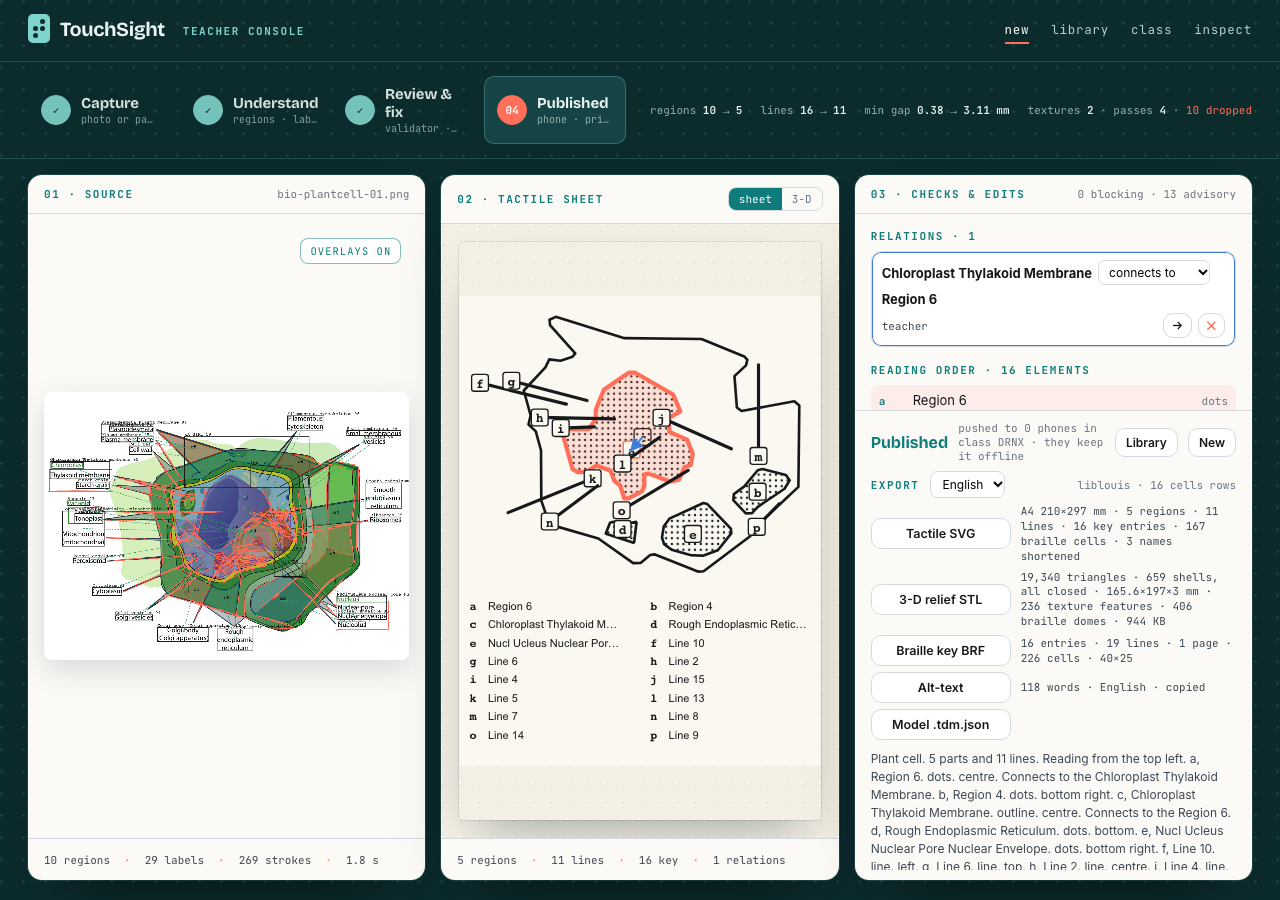
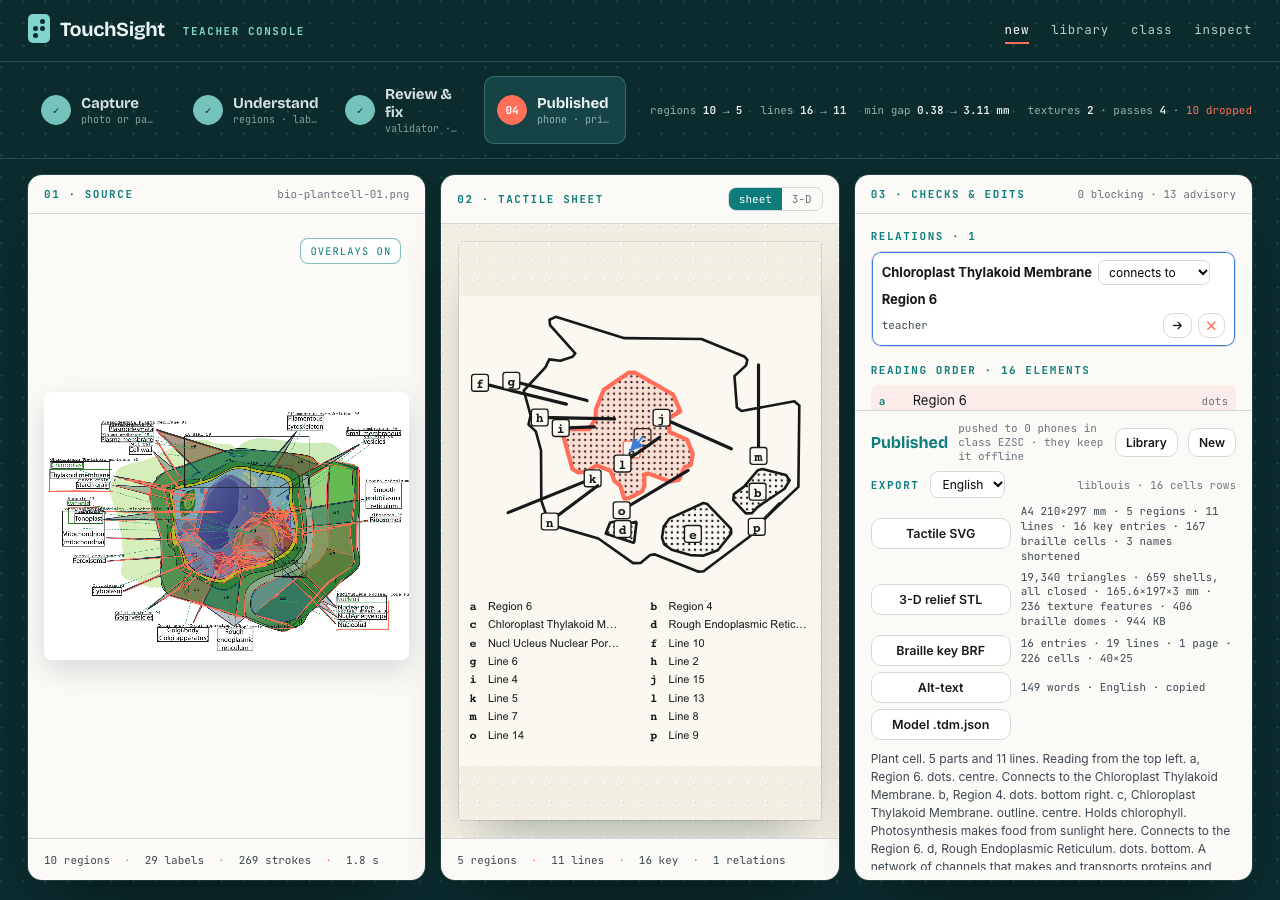
Parts explain themselves when the finger rests

Changed region(s): [[0.6875, 0.9022, 0.9688, 0.9644], [0.6875, 0.28, 0.8438, 0.3111], [0.6875, 0.3422, 0.7188, 0.3733]]

diff --git a/app/src/i18n/meanings.ts b/app/src/i18n/meanings.ts
@@ -1,0 +1,99 @@
+import type { Lang } from '../tdm/types'
+
+/**
+ * What the common parts of school diagrams do, in the three languages of the pilot classrooms. Matched to a
+ * part's name when the teacher reviews; marked "from glossary" until the teacher confirms or rewrites it.
+ * Deterministic and offline: no model writes a sentence a teacher has not seen.
+ */
+export type Meaning = { en: string; hi: string; pa: string }
+type Entry = { names: string[]; m: Meaning }
+
+const G: Entry[] = [
+  { names: ['right atrium'], m: { en: 'Receives deoxygenated blood from the body through the vena cava and passes it to the right ventricle.', hi: 'शरीर से ऑक्सीजन-रहित रक्त महाशिरा द्वारा लेता है और दाएँ निलय को भेजता है।', pa: 'ਸਰੀਰ ਤੋਂ ਆਕਸੀਜਨ-ਰਹਿਤ ਲਹੂ ਮਹਾਂਸ਼ਿਰਾ ਰਾਹੀਂ ਲੈਂਦਾ ਹੈ ਅਤੇ ਸੱਜੇ ਨਿਲਯ ਨੂੰ ਭੇਜਦਾ ਹੈ।' } },
+  { names: ['right ventricle'], m: { en: 'Pumps deoxygenated blood to the lungs through the pulmonary artery.', hi: 'ऑक्सीजन-रहित रक्त को फुफ्फुस धमनी द्वारा फेफड़ों तक पंप करता है।', pa: 'ਆਕਸੀਜਨ-ਰਹਿਤ ਲਹੂ ਨੂੰ ਫੇਫੜਿਆਂ ਤੱਕ ਪਲਮੋਨਰੀ ਧਮਣੀ ਰਾਹੀਂ ਪੰਪ ਕਰਦਾ ਹੈ।' } },
+  { names: ['left atrium'], m: { en: 'Receives oxygen-rich blood from the lungs through the pulmonary veins.', hi: 'फेफड़ों से ऑक्सीजन-युक्त रक्त फुफ्फुस शिराओं द्वारा लेता है।', pa: 'ਫੇਫੜਿਆਂ ਤੋਂ ਆਕਸੀਜਨ-ਯੁਕਤ ਲਹੂ ਪਲਮੋਨਰੀ ਸ਼ਿਰਾਵਾਂ ਰਾਹੀਂ ਲੈਂਦਾ ਹੈ।' } },
+  { names: ['left ventricle'], m: { en: 'The thickest chamber. Pumps oxygen-rich blood to the whole body through the aorta.', hi: 'सबसे मोटा कक्ष। ऑक्सीजन-युक्त रक्त महाधमनी द्वारा पूरे शरीर में पंप करता है।', pa: 'ਸਭ ਤੋਂ ਮੋਟਾ ਕਮਰਾ। ਆਕਸੀਜਨ-ਯੁਕਤ ਲਹੂ ਮਹਾਂਧਮਣੀ ਰਾਹੀਂ ਪੂਰੇ ਸਰੀਰ ਵਿੱਚ ਪੰਪ ਕਰਦਾ ਹੈ।' } },
+  { names: ['septum', 'heart wall'], m: { en: 'The muscular wall that keeps oxygen-rich and oxygen-poor blood apart.', hi: 'पेशीय दीवार जो ऑक्सीजन-युक्त और ऑक्सीजन-रहित रक्त को अलग रखती है।', pa: 'ਪੇਸ਼ੀ ਦੀ ਕੰਧ ਜੋ ਆਕਸੀਜਨ-ਯੁਕਤ ਤੇ ਆਕਸੀਜਨ-ਰਹਿਤ ਲਹੂ ਨੂੰ ਵੱਖ ਰੱਖਦੀ ਹੈ।' } },
+  { names: ['aorta'], m: { en: 'The largest artery. Carries oxygen-rich blood from the left ventricle to the body.', hi: 'सबसे बड़ी धमनी। बाएँ निलय से ऑक्सीजन-युक्त रक्त शरीर तक ले जाती है।', pa: 'ਸਭ ਤੋਂ ਵੱਡੀ ਧਮਣੀ। ਖੱਬੇ ਨਿਲਯ ਤੋਂ ਆਕਸੀਜਨ-ਯੁਕਤ ਲਹੂ ਸਰੀਰ ਤੱਕ ਲੈ ਜਾਂਦੀ ਹੈ।' } },
+  { names: ['pulmonary artery'], m: { en: 'Carries deoxygenated blood from the right ventricle to the lungs.', hi: 'दाएँ निलय से ऑक्सीजन-रहित रक्त फेफड़ों तक ले जाती है।', pa: 'ਸੱਜੇ ਨਿਲਯ ਤੋਂ ਆਕਸੀਜਨ-ਰਹਿਤ ਲਹੂ ਫੇਫੜਿਆਂ ਤੱਕ ਲੈ ਜਾਂਦੀ ਹੈ।' } },
+  { names: ['pulmonary vein', 'pulmonary veins'], m: { en: 'Bring oxygen-rich blood from the lungs to the left atrium.', hi: 'फेफड़ों से ऑक्सीजन-युक्त रक्त बाएँ आलिंद तक लाती हैं।', pa: 'ਫੇਫੜਿਆਂ ਤੋਂ ਆਕਸੀਜਨ-ਯੁਕਤ ਲਹੂ ਖੱਬੇ ਆਲਿੰਦ ਤੱਕ ਲਿਆਉਂਦੀਆਂ ਹਨ।' } },
+  { names: ['superior vena cava', 'inferior vena cava', 'vena cava'], m: { en: 'A large vein bringing deoxygenated blood from the body to the right atrium.', hi: 'बड़ी शिरा जो शरीर से ऑक्सीजन-रहित रक्त दाएँ आलिंद तक लाती है।', pa: 'ਵੱਡੀ ਸ਼ਿਰਾ ਜੋ ਸਰੀਰ ਤੋਂ ਆਕਸੀਜਨ-ਰਹਿਤ ਲਹੂ ਸੱਜੇ ਆਲਿੰਦ ਤੱਕ ਲਿਆਉਂਦੀ ਹੈ।' } },
+  { names: ['valve', 'tricuspid valve', 'bicuspid valve', 'mitral valve'], m: { en: 'Opens one way so blood cannot flow backwards.', hi: 'एक ही दिशा में खुलता है ताकि रक्त पीछे न बहे।', pa: 'ਇੱਕ ਪਾਸੇ ਖੁੱਲ੍ਹਦਾ ਹੈ ਤਾਂ ਜੋ ਲਹੂ ਪਿੱਛੇ ਨਾ ਵਹੇ।' } },
+  { names: ['cell wall'], m: { en: 'The rigid outer layer of a plant cell, made of cellulose. Gives shape and protection.', hi: 'पादप कोशिका की कठोर बाहरी परत, सेलुलोज़ की बनी। आकार और सुरक्षा देती है।', pa: 'ਪੌਦੇ ਦੀ ਕੋਸ਼ਿਕਾ ਦੀ ਸਖ਼ਤ ਬਾਹਰੀ ਪਰਤ, ਸੈਲੂਲੋਜ਼ ਦੀ ਬਣੀ। ਆਕਾਰ ਤੇ ਸੁਰੱਖਿਆ ਦਿੰਦੀ ਹੈ।' } },
+  { names: ['cell membrane', 'plasma membrane'], m: { en: 'Controls what enters and leaves the cell.', hi: 'कोशिका में क्या अंदर आए और क्या बाहर जाए, इसे नियंत्रित करती है।', pa: 'ਕੋਸ਼ਿਕਾ ਵਿੱਚ ਕੀ ਅੰਦਰ ਆਵੇ ਤੇ ਕੀ ਬਾਹਰ ਜਾਵੇ, ਇਹ ਕਾਬੂ ਕਰਦੀ ਹੈ।' } },
+  { names: ['nucleus'], m: { en: 'Controls the cell and holds the chromosomes.', hi: 'कोशिका को नियंत्रित करता है और गुणसूत्र रखता है।', pa: 'ਕੋਸ਼ਿਕਾ ਨੂੰ ਕਾਬੂ ਕਰਦਾ ਹੈ ਤੇ ਗੁਣਸੂਤਰ ਰੱਖਦਾ ਹੈ।' } },
+  { names: ['nucleolus'], m: { en: 'The dense body inside the nucleus where ribosomes are made.', hi: 'केंद्रक के भीतर घना पिंड जहाँ राइबोसोम बनते हैं।', pa: 'ਨਿਊਕਲੀਅਸ ਅੰਦਰ ਸੰਘਣਾ ਪਿੰਡ ਜਿੱਥੇ ਰਾਈਬੋਸੋਮ ਬਣਦੇ ਹਨ।' } },
+  { names: ['nuclear membrane', 'nuclear envelope'], m: { en: 'The double membrane around the nucleus, with pores that let materials pass.', hi: 'केंद्रक के चारों ओर दोहरी झिल्ली, जिसके छिद्रों से पदार्थ आते-जाते हैं।', pa: 'ਨਿਊਕਲੀਅਸ ਦੁਆਲੇ ਦੂਹਰੀ ਝਿੱਲੀ, ਜਿਸਦੇ ਛੇਕਾਂ ਰਾਹੀਂ ਪਦਾਰਥ ਆਉਂਦੇ-ਜਾਂਦੇ ਹਨ।' } },
+  { names: ['cytoplasm'], m: { en: 'The jelly that fills the cell and holds every organelle.', hi: 'जेली जैसा पदार्थ जो कोशिका को भरता है और हर कोशिकांग को थामे रखता है।', pa: 'ਜੈਲੀ ਵਰਗਾ ਪਦਾਰਥ ਜੋ ਕੋਸ਼ਿਕਾ ਨੂੰ ਭਰਦਾ ਹੈ ਤੇ ਹਰ ਅੰਗਕ ਨੂੰ ਥੰਮ੍ਹਦਾ ਹੈ।' } },
+  { names: ['vacuole', 'central vacuole'], m: { en: 'Stores water, sugars and waste, and keeps the cell firm.', hi: 'पानी, शर्करा और अपशिष्ट संग्रहित करती है और कोशिका को तना रखती है।', pa: 'ਪਾਣੀ, ਸ਼ੱਕਰ ਤੇ ਰਹਿੰਦ-ਖੂੰਹਦ ਜਮ੍ਹਾਂ ਰੱਖਦੀ ਹੈ ਤੇ ਕੋਸ਼ਿਕਾ ਨੂੰ ਤਣਿਆ ਰੱਖਦੀ ਹੈ।' } },
+  { names: ['chloroplast', 'chloroplasts'], m: { en: 'Holds chlorophyll. Photosynthesis makes food from sunlight here.', hi: 'क्लोरोफ़िल रखता है। यहाँ प्रकाश-संश्लेषण से सूर्य के प्रकाश से भोजन बनता है।', pa: 'ਕਲੋਰੋਫ਼ਿਲ ਰੱਖਦਾ ਹੈ। ਇੱਥੇ ਪ੍ਰਕਾਸ਼-ਸੰਸ਼ਲੇਸ਼ਣ ਨਾਲ ਧੁੱਪ ਤੋਂ ਭੋਜਨ ਬਣਦਾ ਹੈ।' } },
+  { names: ['mitochondrion', 'mitochondria'], m: { en: 'Releases energy from food. The powerhouse of the cell.', hi: 'भोजन से ऊर्जा मुक्त करता है। कोशिका का ऊर्जा-घर।', pa: 'ਭੋਜਨ ਤੋਂ ਊਰਜਾ ਛੱਡਦਾ ਹੈ। ਕੋਸ਼ਿਕਾ ਦਾ ਊਰਜਾ-ਘਰ।' } },
+  { names: ['ribosome', 'ribosomes'], m: { en: 'Builds proteins.', hi: 'प्रोटीन बनाते हैं।', pa: 'ਪ੍ਰੋਟੀਨ ਬਣਾਉਂਦੇ ਹਨ।' } },
+  { names: ['endoplasmic reticulum', 'rough endoplasmic reticulum', 'smooth endoplasmic reticulum'], m: { en: 'A network of channels that makes and transports proteins and fats.', hi: 'नलिकाओं का जाल जो प्रोटीन और वसा बनाता और पहुँचाता है।', pa: 'ਨਲੀਆਂ ਦਾ ਜਾਲ ਜੋ ਪ੍ਰੋਟੀਨ ਤੇ ਚਰਬੀ ਬਣਾਉਂਦਾ ਤੇ ਪਹੁੰਚਾਉਂਦਾ ਹੈ।' } },
+  { names: ['golgi body', 'golgi apparatus', 'golgi'], m: { en: 'Packs and sends out proteins made by the cell.', hi: 'कोशिका द्वारा बने प्रोटीन को पैक करके बाहर भेजता है।', pa: 'ਕੋਸ਼ਿਕਾ ਵੱਲੋਂ ਬਣੇ ਪ੍ਰੋਟੀਨ ਨੂੰ ਪੈਕ ਕਰਕੇ ਬਾਹਰ ਭੇਜਦਾ ਹੈ।' } },
+  { names: ['lysosome', 'lysosomes'], m: { en: 'Digests waste and worn-out parts of the cell.', hi: 'अपशिष्ट और घिसे हुए कोशिका भागों को पचाता है।', pa: 'ਰਹਿੰਦ-ਖੂੰਹਦ ਤੇ ਘਸੇ ਹੋਏ ਕੋਸ਼ਿਕਾ ਹਿੱਸਿਆਂ ਨੂੰ ਹਜ਼ਮ ਕਰਦਾ ਹੈ।' } },
+  { names: ['petal', 'petals', 'corolla'], m: { en: 'Coloured leaves that attract insects for pollination.', hi: 'रंगीन पत्तियाँ जो परागण के लिए कीटों को आकर्षित करती हैं।', pa: 'ਰੰਗਦਾਰ ਪੱਤੀਆਂ ਜੋ ਪਰਾਗਣ ਲਈ ਕੀੜਿਆਂ ਨੂੰ ਖਿੱਚਦੀਆਂ ਹਨ।' } },
+  { names: ['sepal', 'sepals', 'calyx'], m: { en: 'Green leaves that protect the flower bud.', hi: 'हरी पत्तियाँ जो कली की रक्षा करती हैं।', pa: 'ਹਰੀਆਂ ਪੱਤੀਆਂ ਜੋ ਕਲੀ ਦੀ ਰੱਖਿਆ ਕਰਦੀਆਂ ਹਨ।' } },
+  { names: ['stamen', 'anther', 'filament'], m: { en: 'The male part. The anther makes pollen; the filament holds it up.', hi: 'नर भाग। परागकोश पराग बनाता है; तंतु उसे थामे रखता है।', pa: 'ਨਰ ਹਿੱਸਾ। ਪਰਾਗਕੋਸ਼ ਪਰਾਗ ਬਣਾਉਂਦਾ ਹੈ; ਤੰਤੂ ਉਸਨੂੰ ਥੰਮ੍ਹਦਾ ਹੈ।' } },
+  { names: ['pistil', 'carpel', 'stigma', 'style', 'ovary'], m: { en: 'The female part. The stigma catches pollen, the style carries it down, the ovary holds the ovules that become seeds.', hi: 'मादा भाग। वर्तिकाग्र पराग पकड़ता है, वर्तिका उसे नीचे ले जाती है, अंडाशय में बीजांड होते हैं जो बीज बनते हैं।', pa: 'ਮਾਦਾ ਹਿੱਸਾ। ਵਰਤਿਕਾਗਰ ਪਰਾਗ ਫੜਦਾ ਹੈ, ਵਰਤਿਕਾ ਉਸਨੂੰ ਹੇਠਾਂ ਲੈ ਜਾਂਦੀ ਹੈ, ਅੰਡਕੋਸ਼ ਵਿੱਚ ਬੀਜਾਂਡ ਹੁੰਦੇ ਹਨ ਜੋ ਬੀਜ ਬਣਦੇ ਹਨ।' } },
+  { names: ['ovule', 'ovules'], m: { en: 'Becomes a seed after fertilisation.', hi: 'निषेचन के बाद बीज बनता है।', pa: 'ਨਿਸ਼ੇਚਨ ਮਗਰੋਂ ਬੀਜ ਬਣਦਾ ਹੈ।' } },
+  { names: ['receptacle'], m: { en: 'The swollen top of the stalk that holds all the flower parts.', hi: 'डंठल का फूला हुआ सिरा जो फूल के सभी भागों को थामे रखता है।', pa: 'ਡੰਡੀ ਦਾ ਫੁੱਲਿਆ ਸਿਰਾ ਜੋ ਫੁੱਲ ਦੇ ਸਾਰੇ ਹਿੱਸਿਆਂ ਨੂੰ ਥੰਮ੍ਹਦਾ ਹੈ।' } },
+  { names: ['cornea'], m: { en: 'The clear front window of the eye. Does most of the focusing.', hi: 'आँख की पारदर्शी अगली खिड़की। अधिकांश फोकस यही करती है।', pa: 'ਅੱਖ ਦੀ ਪਾਰਦਰਸ਼ੀ ਅਗਲੀ ਖਿੜਕੀ। ਜ਼ਿਆਦਾਤਰ ਫੋਕਸ ਇਹੀ ਕਰਦੀ ਹੈ।' } },
+  { names: ['iris'], m: { en: 'The coloured ring. Changes the size of the pupil to control light.', hi: 'रंगीन वलय। प्रकाश नियंत्रित करने के लिए पुतली का आकार बदलता है।', pa: 'ਰੰਗਦਾਰ ਛੱਲਾ। ਰੌਸ਼ਨੀ ਕਾਬੂ ਕਰਨ ਲਈ ਪੁਤਲੀ ਦਾ ਆਕਾਰ ਬਦਲਦਾ ਹੈ।' } },
+  { names: ['pupil'], m: { en: 'The opening that lets light into the eye.', hi: 'छिद्र जिससे प्रकाश आँख में जाता है।', pa: 'ਛੇਕ ਜਿਸ ਰਾਹੀਂ ਰੌਸ਼ਨੀ ਅੱਖ ਵਿੱਚ ਜਾਂਦੀ ਹੈ।' } },
+  { names: ['lens', 'eye lens'], m: { en: 'Changes shape to focus light on the retina.', hi: 'रेटिना पर प्रकाश फोकस करने के लिए आकार बदलता है।', pa: 'ਰੈਟਿਨਾ ਉੱਤੇ ਰੌਸ਼ਨੀ ਫੋਕਸ ਕਰਨ ਲਈ ਆਕਾਰ ਬਦਲਦਾ ਹੈ।' } },
+  { names: ['retina'], m: { en: 'The light-sensitive layer at the back where the image forms.', hi: 'पीछे की प्रकाश-संवेदी परत जहाँ प्रतिबिंब बनता है।', pa: 'ਪਿੱਛੇ ਦੀ ਰੌਸ਼ਨੀ-ਸੰਵੇਦੀ ਪਰਤ ਜਿੱਥੇ ਪ੍ਰਤੀਬਿੰਬ ਬਣਦਾ ਹੈ।' } },
+  { names: ['optic nerve'], m: { en: 'Carries the image signals from the retina to the brain.', hi: 'रेटिना से प्रतिबिंब के संकेत मस्तिष्क तक ले जाती है।', pa: 'ਰੈਟਿਨਾ ਤੋਂ ਪ੍ਰਤੀਬਿੰਬ ਦੇ ਸੰਕੇਤ ਦਿਮਾਗ਼ ਤੱਕ ਲੈ ਜਾਂਦੀ ਹੈ।' } },
+  { names: ['ciliary muscle', 'ciliary muscles'], m: { en: 'Pull on the lens to change its focus.', hi: 'लेंस को खींचकर उसका फोकस बदलती हैं।', pa: 'ਲੈਂਜ਼ ਨੂੰ ਖਿੱਚ ਕੇ ਉਸਦਾ ਫੋਕਸ ਬਦਲਦੀਆਂ ਹਨ।' } },
+  { names: ['sclera'], m: { en: 'The tough white outer coat of the eye.', hi: 'आँख का कठोर सफ़ेद बाहरी आवरण।', pa: 'ਅੱਖ ਦਾ ਸਖ਼ਤ ਚਿੱਟਾ ਬਾਹਰੀ ਆਵਰਣ।' } },
+  { names: ['mouth', 'buccal cavity', 'oral cavity'], m: { en: 'Where food is chewed and mixed with saliva.', hi: 'जहाँ भोजन चबाया जाता है और लार से मिलता है।', pa: 'ਜਿੱਥੇ ਭੋਜਨ ਚਬਾਇਆ ਜਾਂਦਾ ਹੈ ਤੇ ਥੁੱਕ ਨਾਲ ਮਿਲਦਾ ਹੈ।' } },
+  { names: ['oesophagus', 'esophagus', 'food pipe'], m: { en: 'Pushes food from the mouth to the stomach.', hi: 'भोजन को मुँह से आमाशय तक धकेलती है।', pa: 'ਭੋਜਨ ਨੂੰ ਮੂੰਹ ਤੋਂ ਮਿਹਦੇ ਤੱਕ ਧੱਕਦੀ ਹੈ।' } },
+  { names: ['stomach'], m: { en: 'Churns food with acid and enzymes.', hi: 'भोजन को अम्ल और एंज़ाइम के साथ मथता है।', pa: 'ਭੋਜਨ ਨੂੰ ਤੇਜ਼ਾਬ ਤੇ ਐਨਜ਼ਾਈਮਾਂ ਨਾਲ ਰਿੜਕਦਾ ਹੈ।' } },
+  { names: ['small intestine'], m: { en: 'Where most digestion finishes and food is absorbed into the blood.', hi: 'जहाँ अधिकांश पाचन पूरा होता है और भोजन रक्त में अवशोषित होता है।', pa: 'ਜਿੱਥੇ ਜ਼ਿਆਦਾਤਰ ਪਾਚਨ ਪੂਰਾ ਹੁੰਦਾ ਹੈ ਤੇ ਭੋਜਨ ਲਹੂ ਵਿੱਚ ਸੋਖਿਆ ਜਾਂਦਾ ਹੈ।' } },
+  { names: ['large intestine', 'colon'], m: { en: 'Absorbs water and forms waste.', hi: 'पानी अवशोषित करती है और मल बनाती है।', pa: 'ਪਾਣੀ ਸੋਖਦੀ ਹੈ ਤੇ ਮਲ ਬਣਾਉਂਦੀ ਹੈ।' } },
+  { names: ['liver'], m: { en: 'Makes bile to digest fats and processes nutrients from the blood.', hi: 'वसा पचाने के लिए पित्त बनाता है और रक्त के पोषक तत्वों का प्रसंस्करण करता है।', pa: 'ਚਰਬੀ ਹਜ਼ਮ ਕਰਨ ਲਈ ਪਿੱਤ ਬਣਾਉਂਦਾ ਹੈ ਤੇ ਲਹੂ ਦੇ ਪੋਸ਼ਕ ਤੱਤਾਂ ਨੂੰ ਸੰਭਾਲਦਾ ਹੈ।' } },
+  { names: ['pancreas'], m: { en: 'Makes digestive enzymes and insulin.', hi: 'पाचक एंज़ाइम और इंसुलिन बनाता है।', pa: 'ਪਾਚਕ ਐਨਜ਼ਾਈਮ ਤੇ ਇਨਸੁਲਿਨ ਬਣਾਉਂਦਾ ਹੈ।' } },
+  { names: ['gall bladder', 'gallbladder'], m: { en: 'Stores bile from the liver.', hi: 'यकृत से आया पित्त संग्रहित करता है।', pa: 'ਜਿਗਰ ਤੋਂ ਆਇਆ ਪਿੱਤ ਜਮ੍ਹਾਂ ਰੱਖਦਾ ਹੈ।' } },
+  { names: ['rectum', 'anus'], m: { en: 'Stores and passes out waste.', hi: 'मल को संग्रहित करता और बाहर निकालता है।', pa: 'ਮਲ ਨੂੰ ਜਮ੍ਹਾਂ ਰੱਖਦਾ ਤੇ ਬਾਹਰ ਕੱਢਦਾ ਹੈ।' } },
+  { names: ['lung', 'lungs'], m: { en: 'Take oxygen into the blood and remove carbon dioxide.', hi: 'रक्त में ऑक्सीजन लेते हैं और कार्बन डाइऑक्साइड निकालते हैं।', pa: 'ਲਹੂ ਵਿੱਚ ਆਕਸੀਜਨ ਲੈਂਦੇ ਹਨ ਤੇ ਕਾਰਬਨ ਡਾਈਆਕਸਾਈਡ ਕੱਢਦੇ ਹਨ।' } },
+  { names: ['trachea', 'windpipe'], m: { en: 'The tube that carries air to the lungs.', hi: 'नली जो हवा फेफड़ों तक ले जाती है।', pa: 'ਨਲੀ ਜੋ ਹਵਾ ਫੇਫੜਿਆਂ ਤੱਕ ਲੈ ਜਾਂਦੀ ਹੈ।' } },
+  { names: ['diaphragm'], m: { en: 'The muscle under the lungs that moves to pull air in and push it out.', hi: 'फेफड़ों के नीचे की पेशी जो हवा खींचने और छोड़ने के लिए चलती है।', pa: 'ਫੇਫੜਿਆਂ ਹੇਠਲੀ ਪੇਸ਼ੀ ਜੋ ਹਵਾ ਖਿੱਚਣ ਤੇ ਛੱਡਣ ਲਈ ਹਿਲਦੀ ਹੈ।' } },
+  { names: ['kidney', 'kidneys'], m: { en: 'Filter waste from the blood to make urine.', hi: 'रक्त से अपशिष्ट छानकर मूत्र बनाते हैं।', pa: 'ਲਹੂ ਵਿੱਚੋਂ ਰਹਿੰਦ-ਖੂੰਹਦ ਛਾਣ ਕੇ ਪਿਸ਼ਾਬ ਬਣਾਉਂਦੇ ਹਨ।' } },
+  { names: ['cell body'], m: { en: 'The neuron\'s centre, with the nucleus.', hi: 'तंत्रिका कोशिका का केंद्र, जिसमें केंद्रक है।', pa: 'ਨਿਊਰੋਨ ਦਾ ਕੇਂਦਰ, ਜਿਸ ਵਿੱਚ ਨਿਊਕਲੀਅਸ ਹੈ।' } },
+  { names: ['dendrite', 'dendrites'], m: { en: 'Receive signals from other neurons.', hi: 'अन्य तंत्रिका कोशिकाओं से संकेत प्राप्त करते हैं।', pa: 'ਹੋਰ ਨਿਊਰੋਨਾਂ ਤੋਂ ਸੰਕੇਤ ਲੈਂਦੇ ਹਨ।' } },
+  { names: ['axon'], m: { en: 'The long fibre that carries the signal away from the cell body.', hi: 'लंबा तंतु जो संकेत को कोशिका काय से दूर ले जाता है।', pa: 'ਲੰਮਾ ਤੰਤੂ ਜੋ ਸੰਕੇਤ ਨੂੰ ਕੋਸ਼ਿਕਾ ਕਾਇਆ ਤੋਂ ਦੂਰ ਲੈ ਜਾਂਦਾ ਹੈ।' } },
+  { names: ['synapse', 'nerve ending', 'axon terminal'], m: { en: 'The gap where the signal passes to the next cell.', hi: 'वह अंतराल जहाँ संकेत अगली कोशिका तक जाता है।', pa: 'ਉਹ ਪਾੜਾ ਜਿੱਥੇ ਸੰਕੇਤ ਅਗਲੀ ਕੋਸ਼ਿਕਾ ਤੱਕ ਜਾਂਦਾ ਹੈ।' } },
+  { names: ['myelin sheath'], m: { en: 'Insulates the axon so the signal travels faster.', hi: 'अक्षतंतु को ढकती है ताकि संकेत तेज़ चले।', pa: 'ਐਕਸੌਨ ਨੂੰ ਢਕਦੀ ਹੈ ਤਾਂ ਜੋ ਸੰਕੇਤ ਤੇਜ਼ ਚੱਲੇ।' } },
+  { names: ['cell', 'battery'], m: { en: 'The source of electrical energy. Pushes current around the circuit.', hi: 'विद्युत ऊर्जा का स्रोत। परिपथ में धारा चलाता है।', pa: 'ਬਿਜਲਈ ਊਰਜਾ ਦਾ ਸਰੋਤ। ਸਰਕਟ ਵਿੱਚ ਕਰੰਟ ਚਲਾਉਂਦਾ ਹੈ।' } },
+  { names: ['bulb', 'lamp'], m: { en: 'Glows when current flows through its filament.', hi: 'जब धारा इसके तंतु से बहती है तो चमकता है।', pa: 'ਜਦੋਂ ਕਰੰਟ ਇਸਦੇ ਤੰਤੂ ਵਿੱਚੋਂ ਵਗਦਾ ਹੈ ਤਾਂ ਚਮਕਦਾ ਹੈ।' } },
+  { names: ['switch'], m: { en: 'Opens or closes the circuit to stop or start the current.', hi: 'धारा रोकने या चलाने के लिए परिपथ खोलता या बंद करता है।', pa: 'ਕਰੰਟ ਰੋਕਣ ਜਾਂ ਚਲਾਉਣ ਲਈ ਸਰਕਟ ਖੋਲ੍ਹਦਾ ਜਾਂ ਬੰਦ ਕਰਦਾ ਹੈ।' } },
+  { names: ['resistor', 'resistance'], m: { en: 'Opposes the current and lowers it.', hi: 'धारा का विरोध करता है और उसे कम करता है।', pa: 'ਕਰੰਟ ਦਾ ਵਿਰੋਧ ਕਰਦਾ ਹੈ ਤੇ ਉਸਨੂੰ ਘਟਾਉਂਦਾ ਹੈ।' } },
+  { names: ['ammeter'], m: { en: 'Measures the current, connected in series.', hi: 'धारा मापता है, श्रेणी में जुड़ा।', pa: 'ਕਰੰਟ ਮਾਪਦਾ ਹੈ, ਲੜੀ ਵਿੱਚ ਜੁੜਿਆ।' } },
+  { names: ['voltmeter'], m: { en: 'Measures the voltage across a part, connected in parallel.', hi: 'किसी भाग के सिरों का वोल्टेज मापता है, समानांतर में जुड़ा।', pa: 'ਕਿਸੇ ਹਿੱਸੇ ਦੇ ਸਿਰਿਆਂ ਦੀ ਵੋਲਟੇਜ ਮਾਪਦਾ ਹੈ, ਸਮਾਨਾਂਤਰ ਵਿੱਚ ਜੁੜਿਆ।' } },
+  { names: ['evaporation'], m: { en: 'Water turns to vapour from oceans, lakes and soil, warmed by the sun.', hi: 'सूर्य की गर्मी से समुद्र, झील और मिट्टी का पानी वाष्प बनता है।', pa: 'ਸੂਰਜ ਦੀ ਗਰਮੀ ਨਾਲ ਸਮੁੰਦਰ, ਝੀਲ ਤੇ ਮਿੱਟੀ ਦਾ ਪਾਣੀ ਭਾਫ਼ ਬਣਦਾ ਹੈ।' } },
+  { names: ['condensation'], m: { en: 'Vapour cools high up and forms clouds.', hi: 'वाष्प ऊपर ठंडी होकर बादल बनाती है।', pa: 'ਭਾਫ਼ ਉੱਪਰ ਠੰਢੀ ਹੋ ਕੇ ਬੱਦਲ ਬਣਾਉਂਦੀ ਹੈ।' } },
+  { names: ['precipitation', 'rain'], m: { en: 'Water falls from clouds as rain, snow or hail.', hi: 'बादलों से पानी वर्षा, हिम या ओले बनकर गिरता है।', pa: 'ਬੱਦਲਾਂ ਤੋਂ ਪਾਣੀ ਮੀਂਹ, ਬਰਫ਼ ਜਾਂ ਗੜਿਆਂ ਵਜੋਂ ਡਿੱਗਦਾ ਹੈ।' } },
+  { names: ['transpiration'], m: { en: 'Plants release water vapour through their leaves.', hi: 'पौधे पत्तियों से जलवाष्प छोड़ते हैं।', pa: 'ਪੌਦੇ ਪੱਤਿਆਂ ਰਾਹੀਂ ਜਲ-ਭਾਫ਼ ਛੱਡਦੇ ਹਨ।' } },
+  { names: ['root', 'roots'], m: { en: 'Anchor the plant and take in water and minerals from the soil.', hi: 'पौधे को थामे रखती हैं और मिट्टी से पानी-खनिज लेती हैं।', pa: 'ਪੌਦੇ ਨੂੰ ਥੰਮ੍ਹਦੀਆਂ ਹਨ ਤੇ ਮਿੱਟੀ ਤੋਂ ਪਾਣੀ-ਖਣਿਜ ਲੈਂਦੀਆਂ ਹਨ।' } },
+  { names: ['stem'], m: { en: 'Holds the plant up and carries water and food between roots and leaves.', hi: 'पौधे को खड़ा रखता है और जड़ों व पत्तियों के बीच पानी-भोजन पहुँचाता है।', pa: 'ਪੌਦੇ ਨੂੰ ਖੜ੍ਹਾ ਰੱਖਦਾ ਹੈ ਤੇ ਜੜ੍ਹਾਂ ਅਤੇ ਪੱਤਿਆਂ ਵਿਚਕਾਰ ਪਾਣੀ-ਭੋਜਨ ਪਹੁੰਚਾਉਂਦਾ ਹੈ।' } },
+  { names: ['leaf', 'leaves'], m: { en: 'Make food by photosynthesis and let gases in and out through stomata.', hi: 'प्रकाश-संश्लेषण से भोजन बनाती हैं और रंध्रों से गैसों का आदान-प्रदान करती हैं।', pa: 'ਪ੍ਰਕਾਸ਼-ਸੰਸ਼ਲੇਸ਼ਣ ਨਾਲ ਭੋਜਨ ਬਣਾਉਂਦੇ ਹਨ ਤੇ ਸਟੋਮੈਟਾ ਰਾਹੀਂ ਗੈਸਾਂ ਦਾ ਲੈਣ-ਦੇਣ ਕਰਦੇ ਹਨ।' } },
+  { names: ['stomata', 'stoma'], m: { en: 'Tiny pores on the leaf that let gases in and out.', hi: 'पत्ती के सूक्ष्म छिद्र जिनसे गैसें आती-जाती हैं।', pa: 'ਪੱਤੇ ਦੇ ਸੂਖਮ ਛੇਕ ਜਿਨ੍ਹਾਂ ਰਾਹੀਂ ਗੈਸਾਂ ਆਉਂਦੀਆਂ-ਜਾਂਦੀਆਂ ਹਨ।' } },
+  { names: ['xylem'], m: { en: 'Carries water and minerals up from the roots.', hi: 'जड़ों से पानी और खनिज ऊपर ले जाता है।', pa: 'ਜੜ੍ਹਾਂ ਤੋਂ ਪਾਣੀ ਤੇ ਖਣਿਜ ਉੱਪਰ ਲੈ ਜਾਂਦਾ ਹੈ।' } },
+  { names: ['phloem'], m: { en: 'Carries food made in the leaves to the rest of the plant.', hi: 'पत्तियों में बना भोजन पूरे पौधे तक पहुँचाता है।', pa: 'ਪੱਤਿਆਂ ਵਿੱਚ ਬਣਿਆ ਭੋਜਨ ਪੂਰੇ ਪੌਦੇ ਤੱਕ ਪਹੁੰਚਾਉਂਦਾ ਹੈ।' } },
+]
+
+const norm = (s: string) => s.toLowerCase().replace(/[^a-z\s]/g, ' ').replace(/\s+/g, ' ').trim()
+const index = new Map<string, Meaning>()
+for (const e of G) for (const n of e.names) index.set(norm(n), e.m)
+
+/** The glossary's sentence for a part name, or null. Exact name first, then the longest glossary name contained in it. */
+export function glossaryMeaning(name: string): Meaning | null {
+  const n = norm(name)
+  if (!n) return null
+  if (index.has(n)) return index.get(n)!
+  let best: { len: number; m: Meaning } | null = null
+  for (const [k, m] of index) if (k.length >= 4 && (n.includes(k) || k.includes(n)) && (!best || k.length > best.len)) best = { len: k.length, m }
+  return best?.m ?? null
+}
+export const GLOSSARY_SIZE = G.length
+export function meaningIn(el: { meaning?: string; meanings?: Partial<Record<Lang, string>> }, lang: Lang): string | undefined { return el.meanings?.[lang] ?? el.meaning }

diff --git a/app/src/routes/teacher/Workbench.tsx b/app/src/routes/teacher/Workbench.tsx
@@ -4,7 +4,7 @@ import { understand, draftTdm, type Understanding } from '../../pipeline/underst
 import { drawUnderstanding, SHOW_ALL } from '../../pipeline/overlay'
 import { simplify, type SimplifyReport } from '../../tdm/simplify'
 import { validate } from '../../tdm/validate'
-import { rename, remove, merge, setTexture, moveInOrder, markReviewed, addRelation, confirmRelation, removeRelation, setRelation } from '../../tdm/edit'
+import { rename, remove, merge, setTexture, moveInOrder, markReviewed, addRelation, confirmRelation, removeRelation, setRelation, setMeaning, confirmMeaning, prefillMeanings } from '../../tdm/edit'
 import { TdmCanvas, TEXTURE_LABEL } from '../../components/TdmCanvas'
 import { TEXTURES, RELATION_KINDS, type Tdm, type ValidationFinding, type TdmRelation } from '../../tdm/types'
 import { getDiagram, saveDiagram, saveImage, getImage } from '../../store/db'
@@ -66,7 +66,9 @@ export function Workbench() {
       const { tdm: draft } = draftTdm(u, { id, title: title || file.name.replace(/\.[^.]+$/, ''), subject: chapter.split(' ')[0] || 'general', sourceKind: 'photo', file: file.name })
       setStage('redesigning for touch')
       await new Promise((r) => setTimeout(r, 30)) // let the stage paint before the solver takes the thread
-      const { tdm: simplified, report } = simplify(draft)
+      const { tdm: solved, report } = simplify(draft)
+      const { tdm: simplified, filled } = prefillMeanings(solved)
+      if (filled) setStage(`${filled} parts explained from the glossary`)
       simplified.validation = validate(simplified)
       setImgUrl(URL.createObjectURL(file))
       setTdm(simplified); setReport(report); setTitle(simplified.title); setStep('review'); setStage('')
@@ -226,6 +228,13 @@ export function Workbench() {
                         </div>
                       </>
                     )}
+                    {'polygon' in sel && (
+                      <label className="wb-meaning">
+                        <span className="kicker">What it does <em className={`mono ${sel.meaningSource ?? 'none'}`}>{sel.meaningSource === 'glossary' ? '· from glossary, confirm or rewrite' : sel.meaningSource === 'teacher' ? '· teacher' : '· spoken after the name when the finger rests'}</em></span>
+                        <textarea rows={2} value={sel.meaning ?? ''} placeholder="Receives deoxygenated blood from the body…" onChange={(e) => saveDraft(setMeaning(tdm, sel.id, e.target.value))} />
+                        {sel.meaningSource === 'glossary' && <div className="wb-meaning-row"><span className="mono">हिं · ਪੰ translations ready</span><button className="btn primary ok" onClick={() => saveDraft(confirmMeaning(tdm, sel.id))}>✓ confirm</button></div>}
+                      </label>
+                    )}
                     <div className="wb-sel-tools">
                       <button className="btn" onClick={() => saveDraft(moveInOrder(tdm, sel.id, -1))}>↑ earlier</button>
                       <button className="btn" onClick={() => saveDraft(moveInOrder(tdm, sel.id, 1))}>↓ later</button>
@@ -257,7 +266,7 @@ export function Workbench() {
                     {tdm.readingOrder.map((id) => {
                       const el = tdm.regions.find((r) => r.id === id) ?? tdm.lines.find((l) => l.id === id)
                       if (!el) return null
-                      return <li key={id} className={selected === id ? 'on' : ''} onClick={() => setSelected(id)}><span className="mono">{el.keyRef}</span>{el.name.en}<em>{'polygon' in el ? TEXTURE_LABEL[el.texture] : `line · ${el.style}`}</em></li>
+                      return <li key={id} className={selected === id ? 'on' : ''} onClick={() => setSelected(id)}><span className="mono">{el.keyRef}</span><span>{el.name.en}{'polygon' in el && el.meaning && <i className={`wb-dot ${el.meaningSource}`} title={el.meaningSource === 'glossary' ? 'explained from the glossary' : 'explained by the teacher'} />}</span><em>{'polygon' in el ? TEXTURE_LABEL[el.texture] : `line · ${el.style}`}</em></li>
                     })}
                   </ol>
                 </section>

diff --git a/app/src/tdm/edit.ts b/app/src/tdm/edit.ts
@@ -1,3 +1,4 @@
+import { glossaryMeaning } from '../i18n/meanings'
 import type { Tdm, Texture, Lang, TdmRegion, TdmLine, TdmRelation } from './types'
 import { cloneTdm } from './io'
 import { union, simplifyPolygon } from './geometry'
@@ -15,6 +16,11 @@ export function rename(tdm: Tdm, id: string, lang: Lang, name: string): Tdm {
   el.name = { ...el.name, [lang]: name }
   const k = t.key.find((k) => k.regionId === id)
   if (k) k.text = { ...k.text, [lang]: name }
+  if (lang === 'en' && 'polygon' in el && el.meaningSource !== 'teacher') {
+    const m = glossaryMeaning(name)
+    if (m) { el.meaning = m.en; el.meanings = { en: m.en, hi: m.hi, pa: m.pa }; el.meaningSource = 'glossary' }
+    else { delete el.meaning; delete el.meanings; delete el.meaningSource }
+  }
   return revalidate(t)
 }
 
@@ -106,4 +112,35 @@ export function markReviewed(tdm: Tdm): Tdm {
   const t = cloneTdm(tdm)
   t.provenance = { ...t.provenance, teacherReviewed: true, reviewedAt: new Date().toISOString() }
   return revalidate(t)
+}
+
+/** The teacher writes what a part does (English); other languages are kept only when they came from the glossary. */
+export function setMeaning(tdm: Tdm, id: string, text: string): Tdm {
+  const t = cloneTdm(tdm)
+  const r = t.regions.find((x) => x.id === id)
+  if (!r) return tdm
+  const clean = text.trim()
+  if (!clean) { delete r.meaning; delete r.meanings; delete r.meaningSource; return t }
+  r.meaning = clean; r.meanings = { en: clean }; r.meaningSource = 'teacher'
+  return t
+}
+/** A glossary sentence stands until the teacher confirms it. */
+export function confirmMeaning(tdm: Tdm, id: string): Tdm {
+  const t = cloneTdm(tdm)
+  const r = t.regions.find((x) => x.id === id)
+  if (!r || !r.meaning) return tdm
+  r.meaningSource = 'teacher'
+  return t
+}
+/** Fill every unexplained region from the glossary by its name; returns how many were filled. */
+export function prefillMeanings(tdm: Tdm): { tdm: Tdm; filled: number } {
+  const t = cloneTdm(tdm)
+  let filled = 0
+  for (const r of t.regions) {
+    if (r.meaning && r.meaningSource !== 'glossary') continue
+    const m = glossaryMeaning(r.name.en)
+    if (m) { r.meaning = m.en; r.meanings = { en: m.en, hi: m.hi, pa: m.pa }; r.meaningSource = 'glossary'; filled++ }
+    else if (r.meaningSource === 'glossary') { delete r.meaning; delete r.meanings; delete r.meaningSource }
+  }
+  return { tdm: t, filled }
 }

diff --git a/app/src/routes/student/Explore.tsx b/app/src/routes/student/Explore.tsx
@@ -40,6 +40,7 @@ export function Explore() {
   const { handle, armed } = useTouchToAct(lang)
   const st = useRef(createState())
   const pending = useRef<number | null>(null)
+  const pending2 = useRef<number | null>(null)
 
   useEffect(() => {
     let live = true
@@ -48,9 +49,9 @@ export function Explore() {
   }, [id])
 
   // ---- the device's three outputs, each logged for the projector and the harness
-  const say = useCallback((text: string, l: Lang = lang) => { log('say', text); setCaption(text); mirror.post({ type: 'say', text }); sound.duck(Math.min(6000, 500 + text.length * 60)); return speak(text, l) ?? wait(Math.min(2500, 250 + text.length * 45)) }, [lang])
+  const say = useCallback((text: string, l: Lang = lang, interrupt = true) => { log('say', text); setCaption(text); mirror.post({ type: 'say', text }); sound.duck(Math.min(6000, 500 + text.length * 60)); return speak(text, l, { interrupt }) ?? wait(Math.min(2500, 250 + text.length * 45)) }, [lang])
   const buzz = useCallback((p: Pulse) => { log('pulse', JSON.stringify(p)); vibrate(p) }, [])
-  const hush = useCallback(() => { if (pending.current) { clearTimeout(pending.current); pending.current = null } }, [])
+  const hush = useCallback(() => { if (pending.current) { clearTimeout(pending.current); pending.current = null } if (pending2.current) { clearTimeout(pending2.current); pending2.current = null } }, [])
   useEffect(() => () => { hush(); stopSpeech(); stopVibration(); sound.lift() }, [hush])
   useEffect(() => { mirror.post({ type: 'mode', mode }) }, [mode])
 
@@ -184,6 +185,7 @@ export function Explore() {
       else if (a.do === 'hush') { hush(); if (st.current.down) sound.tick() }
       else if (a.do === 'focus') { const now = performance.now(); leavePart(now); dwell.current = { id: a.id, since: now }; if (mode !== 'quiz') setFocus(a.id) }
       else if (a.do === 'say' && mode !== 'quiz') { hush(); pending.current = window.setTimeout(() => { pending.current = null; say(a.text) }, a.after) }
+      else if (a.do === 'explain' && mode === 'explore') { if (pending2.current) clearTimeout(pending2.current); pending2.current = window.setTimeout(() => { pending2.current = null; log('explain', a.text); say(a.text, lang, false) }, a.after) }
     }
   }
   const onPointer = (e: React.PointerEvent) => {

diff --git a/app/src/student/explore.ts b/app/src/student/explore.ts
@@ -2,6 +2,7 @@ import type { Tdm, Point, Lang } from '../tdm/types'
 import { TEXTURE_PULSE, EDGE_PULSE, LINE_PULSE, enterPulse, type Pulse } from '../device/haptics'
 import { hitAt, positionOf, type Hit } from './hit'
 import { nameIn, t } from '../i18n'
+import { meaningIn } from '../i18n/meanings'
 
 /**
  * The haptic explorer as a pure step function: the finger position in sheet millimetres goes in, the actions the
@@ -10,10 +11,12 @@ import { nameIn, t } from '../i18n'
 
 export const DWELL_MS = 320      // the finger rests this long in a part before its name is spoken
 export const REPEAT_MS = 750     // while the finger keeps moving inside a part, its rhythm repeats at this interval
+export const EXPLAIN_MS = 1500   // a finger that keeps resting after the name hears what the part does
 
 export type Action =
   | { do: 'pulse'; pulse: Pulse }
   | { do: 'say'; text: string; after: number }
+  | { do: 'explain'; text: string; after: number }
   | { do: 'hush' }
   | { do: 'focus'; id: string | null }
 
@@ -49,6 +52,8 @@ export function step(tdm: Tdm, st: ExploreState, p: Point | null, now: number, l
   st.id = id; st.kind = hit?.kind ?? null; st.since = now; st.lastPulse = now
   if (hit) {
     out.push({ do: 'pulse', pulse: enterPulse(feelOf(hit)) }, { do: 'focus', id }, { do: 'say', text: nameIn(hit.el.name, lang), after: DWELL_MS })
+    const m = hit.kind === 'region' ? meaningIn(hit.el, lang) : undefined
+    if (m) out.push({ do: 'explain', text: m, after: DWELL_MS + EXPLAIN_MS })
   } else {
     out.push({ do: 'pulse', pulse: EDGE_PULSE }, { do: 'focus', id: null })
   }
@@ -66,7 +71,8 @@ export function describeFully(tdm: Tdm, id: string, lang: Lang): string {
   const parts: string[] = [nameIn(el.name, lang)]
   parts.push(r ? s.textures[r.texture] : s.line)
   parts.push(s.positions[positionOf(tdm, id)])
-  if (r?.meaning) parts.push(r.meaning.replace(/[.।]\s*$/, ''))
+  const m = r ? meaningIn(r, lang) : undefined
+  if (m) parts.push(m.replace(/[.।]\s*$/, ''))
   const find = (x: string) => tdm.regions.find((e) => e.id === x) ?? tdm.lines.find((e) => e.id === x)
   for (const rel of tdm.relations) {
     if (rel.from !== id && rel.to !== id) continue

diff --git a/app/src/routes/teacher/teacher.css b/app/src/routes/teacher/teacher.css
@@ -176,3 +176,10 @@
 .wb-overlay { max-width: 100%; max-height: 100%; width: auto; height: auto; border-radius: 8px; box-shadow: 0 10px 30px rgba(12,43,45,.15); }
 .wb-ovl { position: absolute; right: 24px; top: 24px; border: 1px solid var(--line); background: #fff; color: var(--muted); font-size: 10.5px; letter-spacing: .1em; text-transform: uppercase; padding: 5px 9px; border-radius: 8px; cursor: pointer; }
 .wb-ovl.on { color: var(--teal); border-color: rgba(14,124,123,.5); }
+
+/* what a part does */
+.wb-meaning { display: grid; gap: 6px; } .wb-meaning .kicker { display: flex; gap: 8px; align-items: baseline; flex-wrap: wrap; color: var(--teal); }
+.wb-meaning em { font-style: normal; text-transform: none; letter-spacing: 0; font-size: 10.5px; color: var(--muted); } .wb-meaning em.glossary { color: var(--amber); } .wb-meaning em.teacher { color: var(--green); }
+.wb-meaning textarea { width: 100%; padding: 9px 11px; border: 1px solid var(--line); border-radius: 10px; background: #fff; font: inherit; font-size: 13px; line-height: 1.45; resize: vertical; }
+.wb-meaning-row { display: flex; justify-content: space-between; align-items: center; gap: 8px; } .wb-meaning-row .mono { font-size: 10.5px; color: var(--muted); } .wb-meaning-row .btn { padding: 5px 10px; font-size: 12px; }
+.wb-dot { display: inline-block; width: 7px; height: 7px; border-radius: 50%; margin-left: 7px; vertical-align: middle; background: var(--amber); } .wb-dot.teacher { background: var(--green); }

diff --git a/app/src/tdm/types.ts b/app/src/tdm/types.ts
@@ -12,6 +12,10 @@ export interface TdmRegion {
   id: string
   name: LocalText
   meaning?: string
+  /** the same function in the student's languages; `meaning` stays the English fallback */
+  meanings?: Partial<Record<Lang, string>>
+  /** who wrote it: the teacher, or the built-in glossary until a teacher confirms */
+  meaningSource?: 'teacher' | 'glossary'
   polygon: Point[]
   texture: Texture
   keyRef: string
